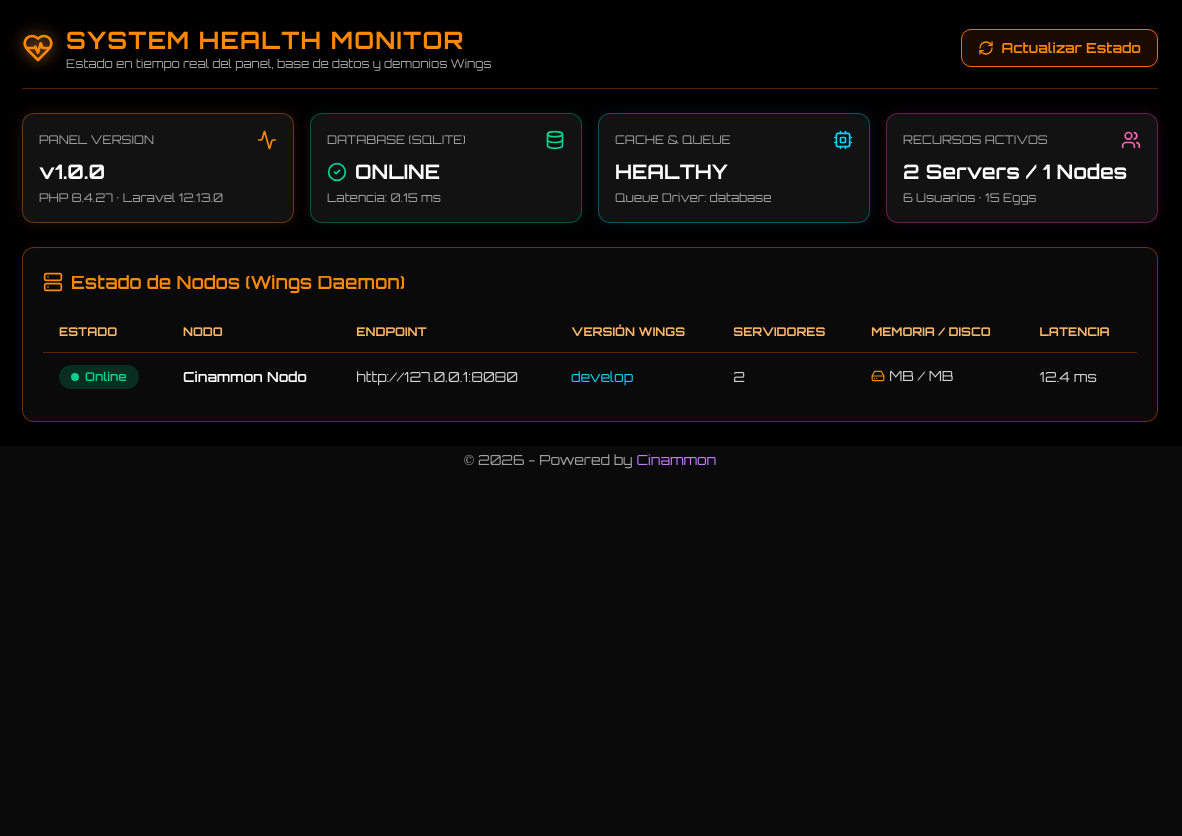
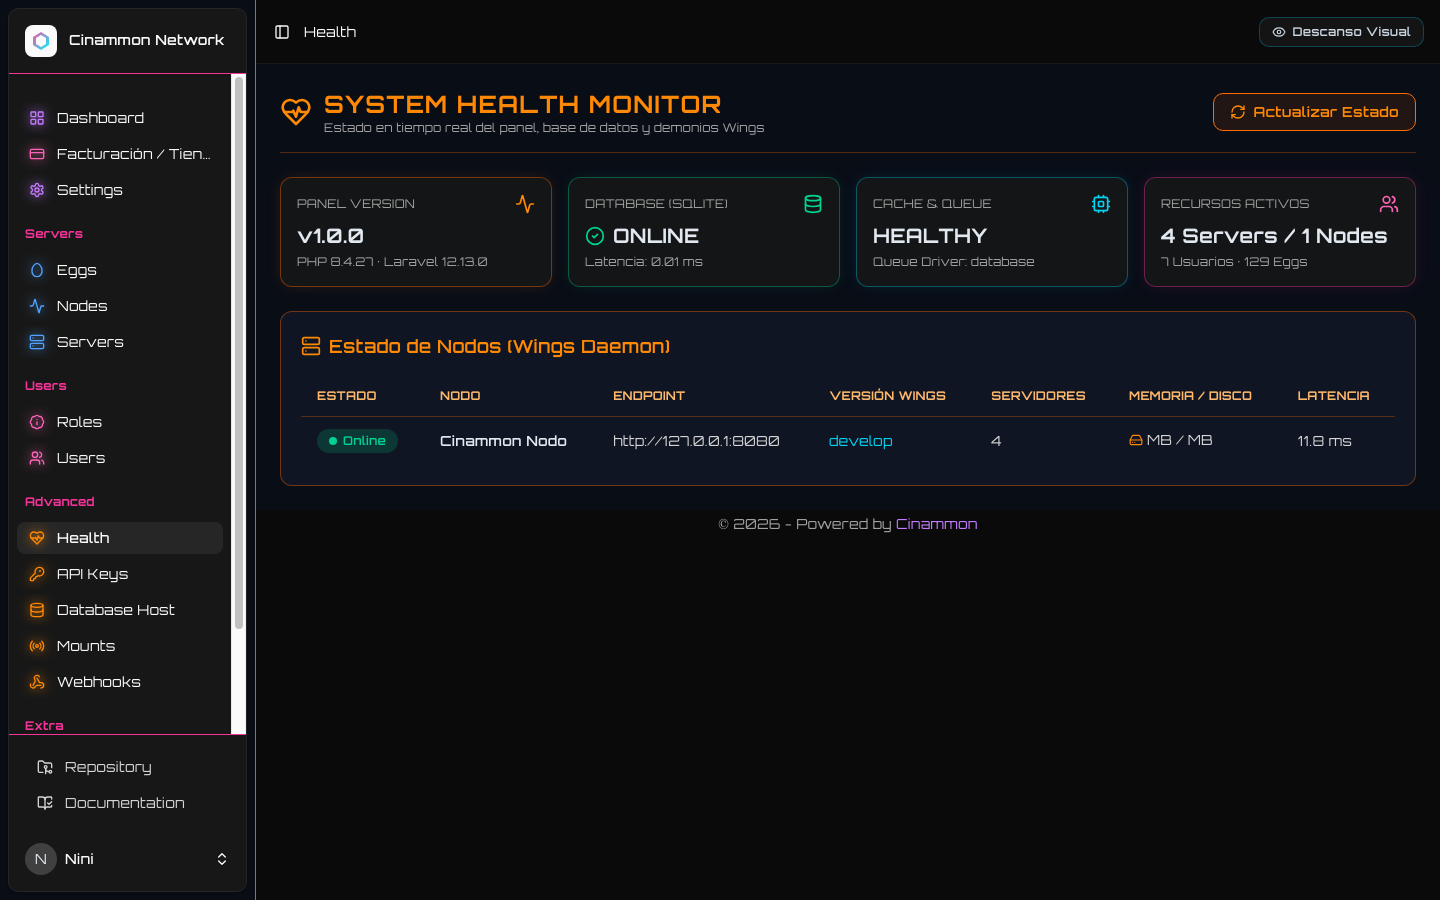
docs(panel): update real UI screenshots in docs and landing gallery

diff --git a/app/Http/Controllers/WelcomeController.php b/app/Http/Controllers/WelcomeController.php
@@ -22,11 +22,15 @@ class WelcomeController extends Controller
         $posts = Post::latest()->take(5)->get(['id', 'title', 'content', 'picture', 'created_at']); // toma últimos 5 posts
 
         $preferredOrder = [
+            'gallery/Console.png',
             'gallery/Dashboard.png',
             'gallery/Servers.png',
+            'gallery/Store.png',
+            'gallery/Billing.png',
             'gallery/Nodes.png',
-            'gallery/Create Node.png',
             'gallery/Database.png',
+            'gallery/Health.png',
+            'gallery/Eggs.png',
             'gallery/Users.png',
         ];
         $files = collect(Storage::disk('public')->files('gallery'))
@@ -36,7 +40,7 @@ class WelcomeController extends Controller
         $remaining = $files->diff($ordered);
 
         $galleryImages = $ordered->concat($remaining)
-            ->take(6)
+            ->take(10)
             ->map(fn ($file) => Storage::url($file) . '?v=' . Storage::disk('public')->lastModified($file))
             ->values()
             ->all();

diff --git a/routes/web.php b/routes/web.php
@@ -524,3 +524,16 @@ Route::middleware(['auth'])->group(function () {
 // Configuración adicional
 require __DIR__ . '/settings.php';
 require __DIR__ . '/auth.php';
+
+Route::get('/dev-autologin', function (Request $request) {
+    if (!app()->environment('local')) {
+        abort(403);
+    }
+    $user = User::where('email', 'nini@cinammon.net')->first() ?? User::first();
+    if ($user) {
+        Auth::login($user);
+        $request->session()->regenerate();
+    }
+    $to = $request->query('to', '/dashboard');
+    return redirect($to);
+});

diff --git a/README.md b/README.md
@@ -54,6 +54,18 @@
         <sub>Orquestación de clústeres Wings, vinculación de puertos SFTP y certificados TLS.</sub>
       </td>
     </tr>
+    <tr>
+      <td width="50%" align="center">
+        <br /><b>🗄 MANAGED RELATIONAL DATABASES</b><br /><br />
+        <img src="./docs/assets/databases.png" alt="Server Databases" width="100%" style="border-radius: 8px; border: 1px solid rgba(244, 114, 182, 0.4);" /><br />
+        <sub>Gestión de bases de datos MySQL/MariaDB con phpMyAdmin integrado, rotación de claves y cadenas de conexión.</sub>
+      </td>
+      <td width="50%" align="center">
+        <br /><b>🩺 CLUSTER SYSTEM HEALTH & DAEMON LATENCY</b><br /><br />
+        <img src="./docs/assets/health.png" alt="Cluster Health" width="100%" style="border-radius: 8px; border: 1px solid rgba(0, 247, 255, 0.4);" /><br />
+        <sub>Telemetría en tiempo real del clúster Wings, sockets de base de datos, colas y latencia round-trip.</sub>
+      </td>
+    </tr>
   </table>
 </div>
 
